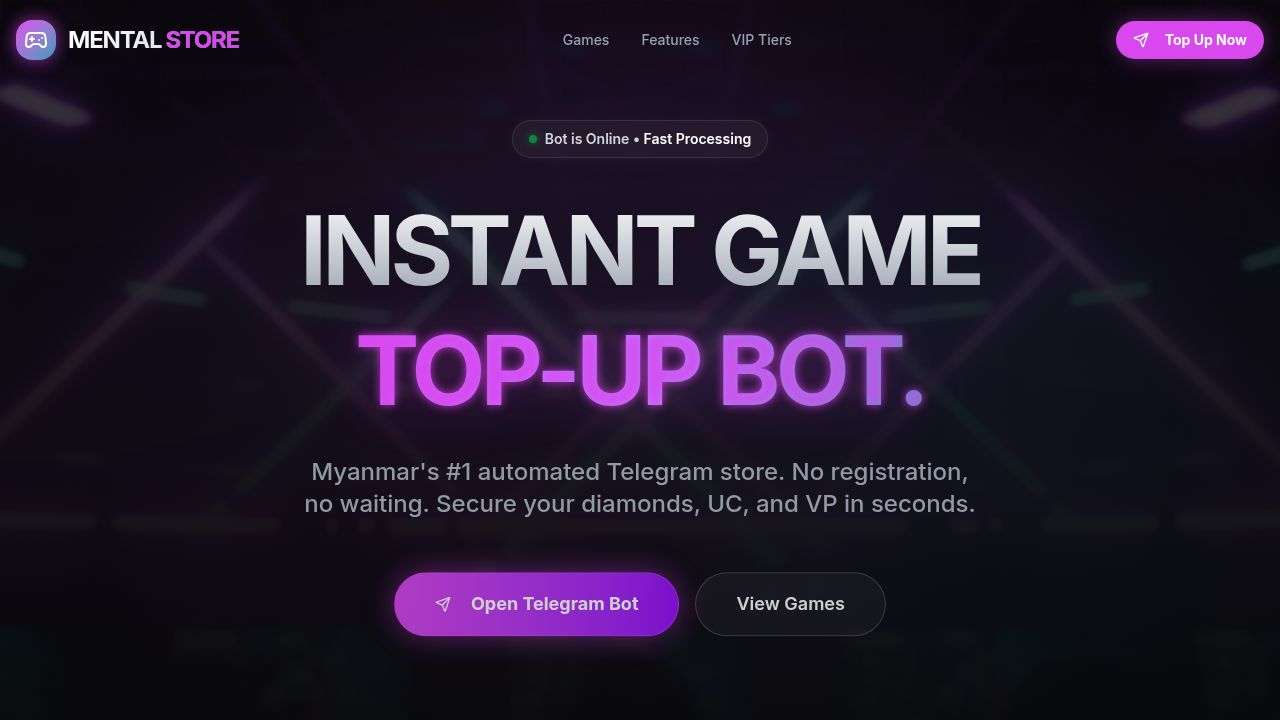
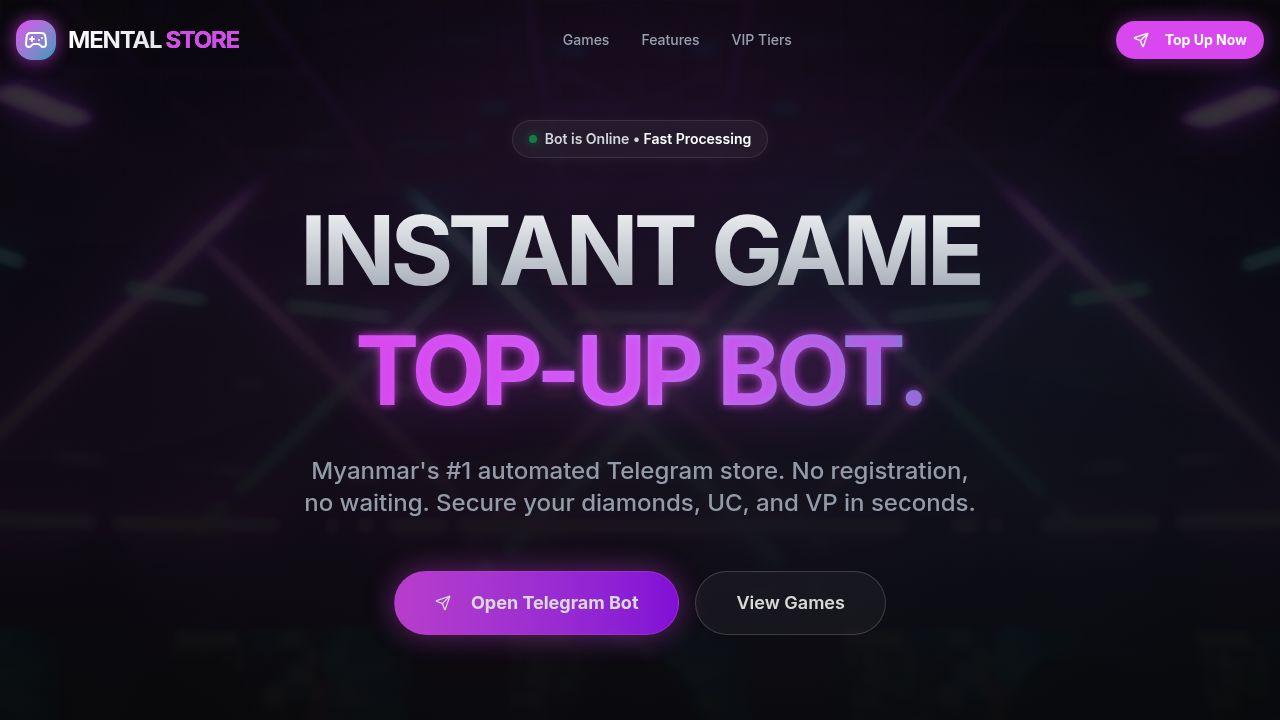
Fix admin panel bugs and improve AI insights error handling
Address missing admin keyboard button handlers, a broken dashboard button, and a 429 rate limit error for AI insights by implementing error handling and type coercion for user ID lookups.

Replit-Commit-Author: Agent
Replit-Commit-Session-Id: 12af9e3a-f9c9-4f12-a347-5163b787c718
Replit-Commit-Checkpoint-Type: full_checkpoint
Replit-Commit-Event-Id: c9c2821f-19bc-4b54-bef0-52071b1e6831
Replit-Commit-Screenshot-Url: https://storage.googleapis.com/screenshot-production-us-central1/1785f5c0-514f-42d5-818f-6619c3f0098e/12af9e3a-f9c9-4f12-a347-5163b787c718/ncItZGr
Replit-Helium-Checkpoint-Created: true

diff --git a/artifacts/bot/src/commands/admin.js b/artifacts/bot/src/commands/admin.js
@@ -1,9 +1,12 @@
 const { adminOnly } = require('../middlewares/adminCheck');
-const { adminMenuKeyboard } = require('../utils/keyboard');
+const { adminMenuKeyboard, mainMenuKeyboard } = require('../utils/keyboard');
 const { fetchLiveRates, getAllRates } = require('../services/currencyService');
 const { auditLog } = require('../services/logger');
 const { listUsers } = require('../services/UserManagementService');
 const { Markup } = require('telegraf');
+const Order = require('../models/Order');
+const Product = require('../models/Product');
+const AuditLog = require('../models/AuditLog');
 
 module.exports = function registerAdmin(bot) {
 
@@ -108,6 +111,131 @@ module.exports = function registerAdmin(bot) {
 
   // ── /broadcast shortcut ────────────────────────────────────────────────────
   bot.command('broadcast', adminOnly(), (ctx) => ctx.scene.enter('broadcast_scene'));
+
+  // ── Admin keyboard button handlers ─────────────────────────────────────────
+
+  bot.hears('📦 Manage Orders', adminOnly(), async (ctx) => {
+    const pending = await Order.countDocuments({ status: 'Pending' });
+    const processing = await Order.countDocuments({ status: 'Processing' });
+    await ctx.reply(
+      `📦 *Order Management*\n\n🟡 Pending: *${pending}*\n🔵 Processing: *${processing}*\n\nChoose an action:`,
+      {
+        parse_mode: 'Markdown',
+        ...Markup.inlineKeyboard([
+          [Markup.button.callback('🟡 View Pending',    'admin_pending_orders')],
+          [Markup.button.callback('📋 All Orders',      'admin_all_orders')],
+          [Markup.button.callback('📊 Dashboard',       'dashboard_refresh')],
+        ]),
+      }
+    );
+  });
+
+  bot.action('admin_all_orders', adminOnly(), async (ctx) => {
+    await ctx.answerCbQuery();
+    const orders = await Order.find()
+      .populate('userId', 'username telegramId')
+      .populate('productId', 'name')
+      .sort({ timestamp: -1 })
+      .limit(10);
+    if (!orders.length) return ctx.reply('📦 No orders found.');
+    const { price } = require('../utils/ui');
+    const lines = orders.map((o, i) => {
+      const user = o.userId?.username ? `@${o.userId.username}` : `ID:${o.userId?.telegramId}`;
+      const product = o.productId?.name || 'Unknown';
+      const icon = o.status === 'Success' ? '✅' : o.status === 'Pending' ? '🟡' : o.status === 'Cancelled' ? '❌' : '🔵';
+      return `${i + 1}\\. ${icon} ${user} — *${product}* — \`${price(o.amount)}\``;
+    });
+    await ctx.reply(`📦 *Recent Orders (${orders.length})*\n\n${lines.join('\n')}`, { parse_mode: 'Markdown' });
+  });
+
+  bot.hears('🛍️ Manage Products', adminOnly(), async (ctx) => {
+    const total   = await Product.countDocuments({});
+    const active  = await Product.countDocuments({ isActive: true });
+    const inactive = total - active;
+    await ctx.reply(
+      `🛍️ *Product Management*\n\n✅ Active: *${active}*\n🔴 Inactive: *${inactive}*\n📦 Total: *${total}*\n\nChoose an action:`,
+      {
+        parse_mode: 'Markdown',
+        ...Markup.inlineKeyboard([
+          [Markup.button.callback('📋 List Products',    'pm_list_products')],
+          [Markup.button.callback('➕ Add Product',      'pm_add_product')],
+          [Markup.button.callback('💱 Update Rates',     'open_rate_manager')],
+        ]),
+      }
+    );
+  });
+
+  bot.action('pm_list_products', adminOnly(), async (ctx) => {
+    await ctx.answerCbQuery();
+    const products = await Product.find().sort({ isActive: -1, category: 1 }).limit(15);
+    if (!products.length) return ctx.reply('🛍️ No products found. Add some first.');
+    const lines = products.map((p, i) => {
+      const icon = p.isActive ? '✅' : '🔴';
+      return `${i + 1}\\. ${icon} *${p.name}* — \`${p.finalPrice?.toLocaleString() || '?'} KS\``;
+    });
+    await ctx.reply(
+      `🛍️ *Products (${products.length})*\n\n${lines.join('\n')}\n\n_Use /addproduct or the API to manage products._`,
+      { parse_mode: 'Markdown' }
+    );
+  });
+
+  bot.action('pm_add_product', adminOnly(), async (ctx) => {
+    await ctx.answerCbQuery();
+    await ctx.reply(
+      `➕ *Add Product*\n\nUse the command:\n\`/addproduct\`\n\nOr manage products via the API panel:\n/apimanagement`,
+      { parse_mode: 'Markdown' }
+    );
+  });
+
+  bot.hears('📋 Audit Logs', adminOnly(), async (ctx) => {
+    const logs = await AuditLog.find()
+      .sort({ createdAt: -1 })
+      .limit(10);
+
+    if (!logs.length) {
+      return ctx.reply('📋 No audit log entries yet.');
+    }
+
+    const lines = logs.map((l, i) => {
+      const ts = new Date(l.createdAt).toLocaleString('en-GB', { timeZone: 'Asia/Rangoon' });
+      const target = l.targetId ? ` → \`${l.targetId}\`` : '';
+      return `${i + 1}\\. \`${l.action}\`${target}\n   _${ts} MMT_`;
+    });
+
+    await ctx.reply(
+      `📋 *Recent Audit Logs*\n\n${lines.join('\n\n')}`,
+      {
+        parse_mode: 'Markdown',
+        ...Markup.inlineKeyboard([[Markup.button.callback('🔄 Refresh', 'audit_refresh')]]),
+      }
+    );
+  });
+
+  bot.action('audit_refresh', adminOnly(), async (ctx) => {
+    await ctx.answerCbQuery('Refreshing...');
+    const logs = await AuditLog.find().sort({ createdAt: -1 }).limit(10);
+    if (!logs.length) return ctx.editMessageText('📋 No audit log entries yet.');
+    const lines = logs.map((l, i) => {
+      const ts = new Date(l.createdAt).toLocaleString('en-GB', { timeZone: 'Asia/Rangoon' });
+      const target = l.targetId ? ` → \`${l.targetId}\`` : '';
+      return `${i + 1}\\. \`${l.action}\`${target}\n   _${ts} MMT_`;
+    });
+    await ctx.editMessageText(
+      `📋 *Recent Audit Logs*\n\n${lines.join('\n\n')}`,
+      {
+        parse_mode: 'Markdown',
+        ...Markup.inlineKeyboard([[Markup.button.callback('🔄 Refresh', 'audit_refresh')]]),
+      }
+    );
+  });
+
+  bot.hears('🔙 Back to Main', adminOnly(), async (ctx) => {
+    const name = ctx.from?.first_name || 'Admin';
+    await ctx.reply(
+      `👤 Switched to user view, *${name}*\\.\nUse the menu below or tap /admin to return to the admin panel\\.`,
+      { parse_mode: 'MarkdownV2', ...mainMenuKeyboard() }
+    );
+  });
 
   // ── Manual price setter (from rate manager scene) ──────────────────────────
   bot.on('message', async (ctx, next) => {

diff --git a/artifacts/bot/src/models/User.js b/artifacts/bot/src/models/User.js
@@ -86,28 +86,41 @@ userSchema.statics.findByTelegramId = function (telegramId) {
 };
 
 userSchema.statics.findOrCreate = async function (telegramId, username, firstName) {
-  try {
-    const setFields = { lastActive: new Date() };
-    if (username)  setFields.username   = username;
-    if (firstName) setFields.first_name = firstName;
+  // Always coerce to Number — Telegram IDs are always numeric
+  const numId = Number(telegramId);
 
-    const user = await this.findOneAndUpdate(
-      { telegramId },
-      { $setOnInsert: { telegramId }, $set: setFields },
-      { upsert: true, new: true, setDefaultsOnInsert: true }
-    );
+  // Step 1 — find by number OR string (handles legacy docs stored as string)
+  let user = await this.findOne({ $or: [{ telegramId: numId }, { telegramId: String(telegramId) }] });
 
-    // Mongoose 8.x can return null on upsert in some edge cases — fallback to direct find
-    if (!user) {
-      console.warn('[User] findOneAndUpdate returned null, falling back to findOne for:', telegramId);
-      return this.findOne({ telegramId });
+  if (user) {
+    // Normalise type in background if stored as string
+    if (typeof user.telegramId !== 'number') {
+      this.updateOne({ _id: user._id }, { $set: { telegramId: numId, lastActive: new Date() } }).catch(() => {});
+    } else {
+      const patch = { lastActive: new Date() };
+      if (username)  patch.username   = username;
+      if (firstName) patch.first_name = firstName;
+      this.updateOne({ _id: user._id }, { $set: patch }).catch(() => {});
     }
     return user;
-  } catch (err) {
-    if (err.code === 11000) return this.findOne({ telegramId });
-    console.error('[User] findOrCreate error for', telegramId, ':', err.message);
-    // Last-resort fallback — never let auth crash the bot
-    return this.findOne({ telegramId }) || null;
+  }
+
+  // Step 2 — not found; create
+  try {
+    user = await this.create({
+      telegramId: numId,
+      username:   username   || null,
+      first_name: firstName  || null,
+      lastActive: new Date(),
+    });
+    return user;
+  } catch (createErr) {
+    console.error('[User] create error for', numId, ':', createErr.code, createErr.message);
+    // Duplicate key — race condition; try both forms again
+    if (createErr.code === 11000) {
+      return this.findOne({ $or: [{ telegramId: numId }, { telegramId: String(telegramId) }] });
+    }
+    return null;
   }
 };
 

diff --git a/artifacts/bot/src/services/AIInsightsService.js b/artifacts/bot/src/services/AIInsightsService.js
@@ -26,16 +26,23 @@ function geminiUrl(endpoint) {
 }
 
 async function callGemini(systemPrompt, userPrompt, { maxTokens = 600, temperature = 0.7 } = {}) {
-  const { data } = await axios.post(
-    geminiUrl('generateContent'),
-    {
-      system_instruction: { parts: [{ text: systemPrompt }] },
-      contents: [{ role: 'user', parts: [{ text: userPrompt }] }],
-      generationConfig: { maxOutputTokens: maxTokens, temperature },
-    },
-    { headers: { 'Content-Type': 'application/json' }, timeout: 30000 }
-  );
-  return data?.candidates?.[0]?.content?.parts?.[0]?.text?.trim() || null;
+  try {
+    const { data } = await axios.post(
+      geminiUrl('generateContent'),
+      {
+        system_instruction: { parts: [{ text: systemPrompt }] },
+        contents: [{ role: 'user', parts: [{ text: userPrompt }] }],
+        generationConfig: { maxOutputTokens: maxTokens, temperature },
+      },
+      { headers: { 'Content-Type': 'application/json' }, timeout: 30000 }
+    );
+    return data?.candidates?.[0]?.content?.parts?.[0]?.text?.trim() || null;
+  } catch (err) {
+    if (err.response?.status === 429) {
+      throw new Error('AI rate limit reached — please wait a few minutes before trying again.');
+    }
+    throw err;
+  }
 }
 
 // ── Data formatters ───────────────────────────────────────────────────────────

diff --git a/artifacts/bot/src/commands/dashboard.js b/artifacts/bot/src/commands/dashboard.js
@@ -123,8 +123,22 @@ module.exports = function registerDashboard(bot) {
   });
 
   bot.hears('📊 Dashboard', adminOnly(), async (ctx) => {
-    await ctx.scene ? ctx.reply('Loading...') : null;
-    return ctx.reply('/dashboard');
+    const ref = await pulseLoading(ctx, 'Loading Dashboard', 3, 400);
+    try {
+      const theme = getTheme(ctx.user);
+      const text = await buildDashboardText(theme);
+      await resolveMessage(ctx, ref, text, {
+        ...Markup.inlineKeyboard([
+          [Markup.button.callback('🔄 Refresh', 'dashboard_refresh')],
+          [Markup.button.callback('📦 View Pending', 'admin_pending_orders')],
+          [Markup.button.callback('📊 Analytics', 'dashboard_analytics')],
+          [Markup.button.callback('💱 Manage Rates', 'open_rate_manager')],
+          [Markup.button.callback('🖥 System Health', 'dashboard_syshealth')],
+        ]),
+      });
+    } catch (err) {
+      await resolveMessage(ctx, ref, `❌ Dashboard error: ${err.message}`);
+    }
   });
 
   bot.action('dashboard_refresh', adminOnly(), async (ctx) => {